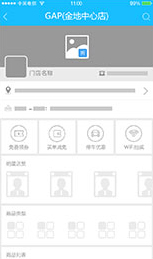
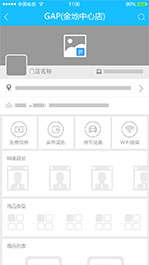
midified img

diff --git a/src/routes/Mobile/routes/Template/index.scss b/src/routes/Mobile/routes/Template/index.scss
@@ -16,7 +16,7 @@
 .phone{
   position: relative;
   width: 172px;
-  height: 330px;
+  height: 327px;
   background: url(../../../Home/assets/bg_iphone6.png) no-repeat;
   background-size: 100% 100%;
 }
@@ -24,9 +24,9 @@
   position: absolute;
   left: 50%;
   top: 30px;
-  margin-left: -78px;
-  width: 156px;
-  height: 260px;
+  margin-left: -74px;
+  width: 149px;
+  height: 265px;
   border: 1px solid #e5e5e5;
 }
 .module-one{
